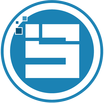
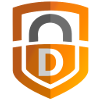
First didux build

diff --git a/src/client/ui/menu.c b/src/client/ui/menu.c
@@ -2252,7 +2252,7 @@ void Menu_Draw(menuFrameWork_t *menu)
                 draw = "";
             } else {
                 char * result = NULL;
-                asprintf(&result, "%s %d Smilo", menu->title2, gamedetails.firstReward);
+                asprintf(&result, "%s %d Didux", menu->title2, gamedetails.firstReward);
                 draw = result;
             }
         } 
@@ -2268,7 +2268,7 @@ void Menu_Draw(menuFrameWork_t *menu)
                 draw = "";
             } else {
                 char * result = NULL;
-                asprintf(&result, "%s %d Smilo", menu->title3, gamedetails.secondReward);
+                asprintf(&result, "%s %d Didux", menu->title3, gamedetails.secondReward);
                 draw = result;
             }
         } 
@@ -2285,7 +2285,7 @@ void Menu_Draw(menuFrameWork_t *menu)
                 draw = "";
             } else {
                 char * result = NULL;
-                asprintf(&result, "%s %d Smilo", menu->title4, gamedetails.thirdReward);
+                asprintf(&result, "%s %d Didux", menu->title4, gamedetails.thirdReward);
                 draw = result;
             }
         } 
@@ -2388,7 +2388,7 @@ void Menu_Draw(menuFrameWork_t *menu)
         char* draw = menu->title7;
         if (strcmp(menu->title7, "playamount") == 0) {
             char * result = NULL;
-            asprintf(&result, "Transaction (to play): %d Smilo", gamedetails.deposit);
+            asprintf(&result, "Transaction (to play): %d Didux", gamedetails.deposit);
             draw = result;
         } 
         UI_DrawString(uis.width / 2, menu->y1 + 130,

diff --git a/src/common/common.c b/src/common/common.c
@@ -1035,7 +1035,7 @@ void Qcommon_Init(int argc, char **argv)
     Com_AddConfigFile(COM_POSTINIT_CFG, FS_TYPE_REAL);
 
     Com_Printf("====== Smilo Quake initialized ======\n\n");
-    Com_Printf("https://github.com/Smilo-platform/Smilo-Quake\n\n");
+    Com_Printf("https://github.com/didux-io/Didux-Quake\n\n");
 
     time(&com_startTime);
 

diff --git a/src/client/ui/servers.c b/src/client/ui/servers.c
@@ -286,7 +286,7 @@ void UI_StatusEvent(const serverStatus_t *status)
             strcpy(value, "<MISSING VALUE>");
 
         if (strcmp(key, "version") == 0) {
-            sprintf(value, "%s", "Smilo Quake Edition");
+            sprintf(value, "%s", "Didux Quake Edition");
         }    
 
         slot->rules[slot->numRules++] =

diff --git a/src/client/console.c b/src/client/console.c
@@ -940,7 +940,7 @@ static void Con_DrawSolidConsole(void)
                     UI_DRAWCURSOR, con.charsetImage);
     }
 
-#define APP_VERSION "Smilo Quake"
+#define APP_VERSION "Didux Quake"
 #define VER_WIDTH ((int)(sizeof(APP_VERSION) + 1) * CHAR_WIDTH)
 
     y = vislines - CON_PRESTEP + CHAR_HEIGHT;

diff --git a/README.md b/README.md
@@ -1,12 +1,12 @@
-Smilo Quake
+Didux Quake
 =====
 
-Smilo Quake is an enhanced, multiplayer oriented Quake 2 client and server.
-Players are able to mine, earn and lose Smilo.
+Didux Quake is an enhanced, multiplayer oriented Quake 2 client and server.
+Players are able to mine, earn and lose Didux.
 
 Features include:
 
-* Smilo Game Agent connection
+* Didux Game Agent connection
 * rewritten OpenGL renderer optimized for stable FPS
 * enhanced client console with persistent history
 * ZIP packfiles (.pkz), JPEG and PNG textures, MD3 models
@@ -14,9 +14,9 @@ Features include:
 * multichannel sound using OpenAL
 * server side multiview demos and GTV capabilities
 
-For building Smilo Quake, consult the INSTALL file.
+For building Didux Quake, consult the INSTALL file.
 
-For information on using and configuring Smilo Quake, refer to client and server
+For information on using and configuring Didux Quake, refer to client and server
 manuals available in doc/ subdirectory.
 
 Credits
